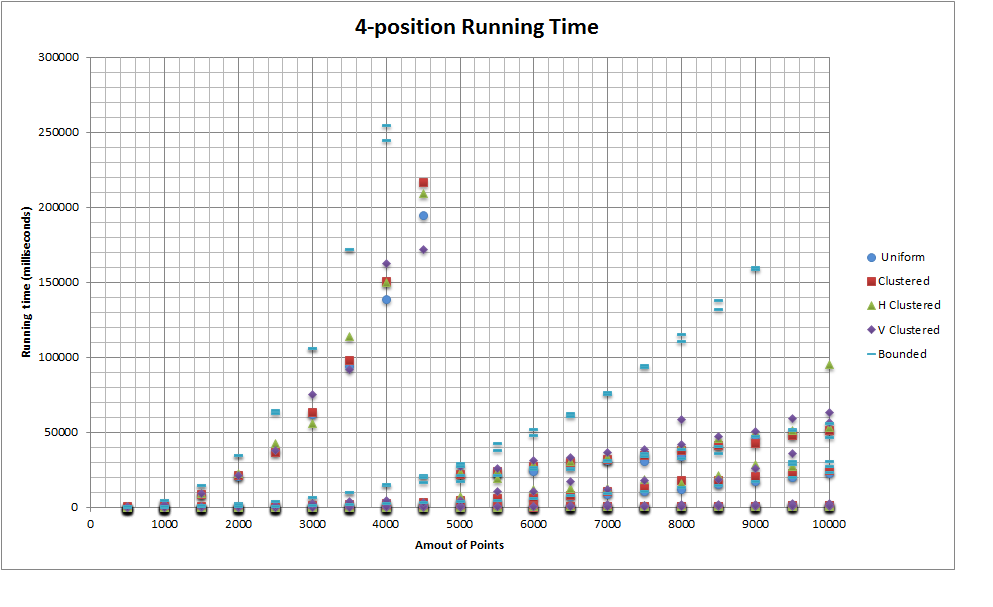
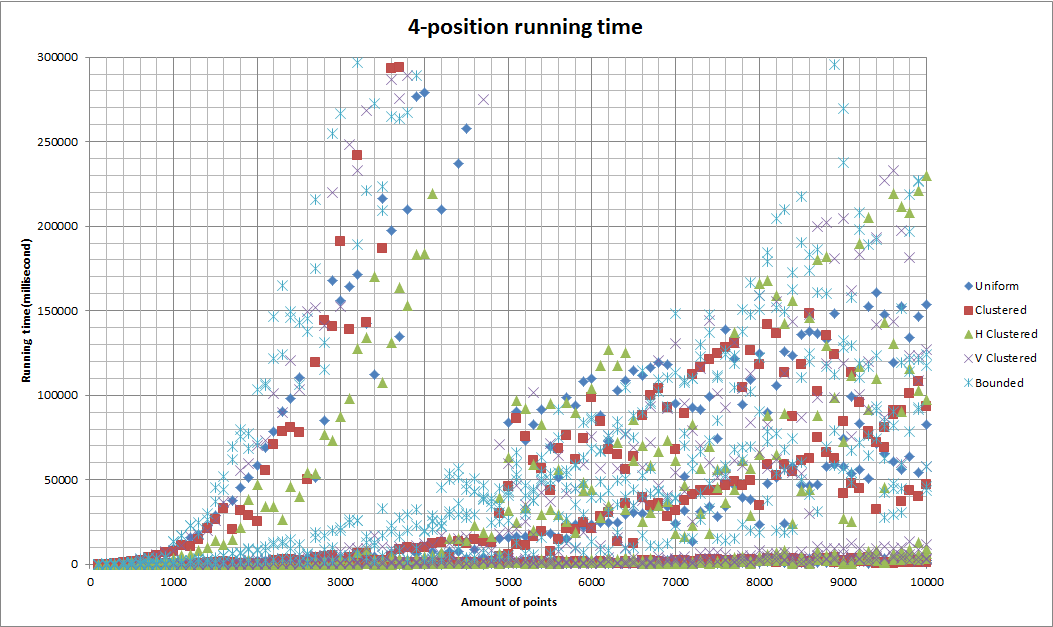
resolve conflict

diff --git a/3.ExperimentalEvaluation/ExperimentalEvaluation.tex b/3.ExperimentalEvaluation/ExperimentalEvaluation.tex
@@ -59,7 +59,7 @@ We ran all the tests in our experimental evaluation on a HP EliteBook 8570w with
 
 \subsection{2-position}
 \subsubsection{Results}
-The algorithm for the 2-position model has been explained in detail in section .... As a short recap, this algorithm has two phase: first we map all the collisions of every candidates of every single point, then we try to place the candidates that has least amount of collisions. For the experimental evaluation of the 2-position algorithm we use $2500$ different test cases with $500$ cases for each distribution.
+The algorithm for the 2-position model is explained in detail in section 2.2. As a short recap, this algorithm has two phases: first we map all the collisions of every candidates of every single point, then we try to place the candidates that has least amount of collisions. For the experimental evaluation of the 2-position algorithm we used $2500$ different test cases with $500$ cases for each distribution. These test cases start with 100 points and increase with 100 points until 10000 points are reached. \\
 
 \begin{figure}[h!]
  \centering
@@ -72,36 +72,50 @@ The algorithm for the 2-position model has been explained in detail in section .
   \centerline{\includegraphics[scale = 0.5]{2PosLabelsPlaced.png}}
   \caption{A graphic showing the percentage of labels placed by the 2-position algorithm}
  \end{figure}
+ 
 \subsubsection{Discussion}
-As stated in section ... the theoretical running time of the 2-position algorithm is $O(n^2)$. From figure ... we can see that the running time of most of the cases is close to their best case. This is because the amount of collisions of the candidates is small, so it will not take much time to map the collisions and it will take less time to place the labels. There are some cases that have higher running time than the others. And we can see from the figure that the practical worst case running time are close to the theoretical running time $O(n^2)$ as we explained before. \\
+As stated in section 2.2.1 the theoretical running time of the 2-position algorithm is $O(n^2)$. From figure ... we can see that the running time of most of the cases is close to their best case. This is because the amount of collisions of the candidates is small, so it will not take much time to map the collisions and it will take less time to place the labels. There are some cases that have higher running time than the others. And we can see from the figure that the practical worst case running time are close to the theoretical running time $O(n^2)$ as we explained before. \\
 The worst cases of each distribution suddenly drops when the number of points reaches a specific amount. This is because in these cases, there are too many collisions. If we use the regular algorithm, the running time will become really high so it's not efficient. So in that case, we use greedy algorithm to place the labels. The running time will become lower and the solution is as optimal when using the regular algorithm since there are a lot of collisions.\\
 Other than running time, we also look at the amount of placed labels of our algorithm. As we can see from figure ..., when the amount of points are small, the algorithm gives solutions with high percentage of placed labels. When the amount of points become higher, the percentage of placed labels will become lower. This is normal as the labels have the same height and the same width for the same type of distribution but with a higher amount of points. The reason why bounded cases have low solution is because all points are placed in a small area.\\
 
 \subsection{4-position}
 \subsubsection{Results}
-The algorithm of 4-position model is basically the same as the algorithm of 2-position except it can place two more labels. For the experimental evaluation of the 4-position algorithm we also use $2500$ different test cases with $500$ cases for each distribution. 
+The algorithm of 4-position model is explained in detail in section 2.2 It is basically the same as the algorithm of 2-position except it has two more possible label candidates. For the experimental evaluation of the 4-position algorithm we also used $2500$ different test cases with $500$ cases for each distribution. These test cases start with 100 points and increase with 100 points until 10000 points are reached.\\ 
 
  \begin{figure}[h!]
  \centering
- \centerline{\includegraphics[scale = 0.6]{4PosRunningTime.png}}
+ \centerline{\includegraphics[scale = 0.5]{4PosRunningTime.png}}
  \caption{A graphic showing the Running Time of the 4-position algorithm}
  \end{figure}
 
  \begin{figure}[h!]
  \centering
-  \centerline{\includegraphics[scale = 0.6]{4PosLabelsPlaced.png}}
+  \centerline{\includegraphics[scale = 0.5]{4PosLabelsPlaced.png}}
   \caption{A graphic showing the percentage of labels placed by the 4-position algorithm}
  \end{figure}
+ 
 \subsubsection{Discussion}
-As we stated in section ..., the algorithm for the 4-position model is nearly the same as the algorithm for the 2-position model. Hence the theoretical running time of the 4-position algorithm is also $O(n^2)$. In figure ..., it shows the running time of $2500$ different cases. As with the algorithm for the 2-position model, the running time for most of the cases is close to their best case. This is because the amount of collisions of the candidates is small, so it will not take much time to map the collisions and it will take less time to place the labels. We can see from the figure that the practical worst-case running time is close to the theoretical running time $O(n^2)$. \\
+As we stated in section 2.2.1, the algorithm for the 4-position model is nearly the same as the algorithm for the 2-position model. Hence the theoretical running time of the 4-position algorithm is also $O(n^2)$. In figure ..., it shows the running time of $2500$ different cases. As with the algorithm for the 2-position model, the running time for most of the cases is close to their best case. This is because the amount of collisions of the candidates is small, so it will not take much time to map the collisions and it will take less time to place the labels. We can see from the figure that the practical worst-case running time is close to the theoretical running time $O(n^2)$. \\
 The running time of the worst cases of each distribution also suddenly drop when the number of points reaches a specific amount. This is because, in these cases, there are too many collisions and, as with the 2-position algorithm, we use a greedy algorithm to place the labels. But there are still some differences between the algorithm for the 2-position model and the 4-position model. The 4-position algorithm reverts to using the greedy algorithm faster than 2-position algorithm. this is because, with the 4-position model, more collisions occur between candidates as there are more possible positions for a candidate to be in.\\
 Other than running time, we also look at the amount of placed labels of our algorithm. As we can see from figure ..., when the amount of points are small, the algorithm gives solutions with high percentage of placed labels. When the amount of points become higher, the percentage of placed labels will become lower. This can be explained by the same situation in 2-position model. Compared to the result of 2-position algorithm, 4-position algorithm has higher solution in the percentage of placed labels since it has two more labels to place.\\
 
 \subsection{1-slider}
 \subsubsection{Results}
-The running time of the 1-slider algorithm can be seen in figure ... We found in practice that the running time of the 1-slider algorithm can exceed the time limit we had of 5 minutes when the amount of overlaps was large. We thus put a hard limit of 4.5 minutes on the heuristic algorithm and, if the algorithm had not given a result by then, ran a greedy algorithm.
+For the evaluation of the 1-slider algorithm we ran 500 test cases, 100 of each distribution. These test cases start with 500 points and increase with 500 points until 10000 points is reached. The 1-slider algorithm is explained in detail in section 2.3
 
-The percentage of labels placed by the 1-slider algorithm can be seen in figure ...
+ \begin{figure}[h!]
+ \centering
+ \centerline{\includegraphics[scale = 0.65]{1slider.png}}
+ \caption{A graphic showing the Running Time of the 1-slider algorithm}
+ \end{figure}
+
+ \begin{figure}[h!]
+ \centering
+  \centerline{\includegraphics[scale = 0.65]{1sliderplaced.png}}
+  \caption{A graphic showing the percentage of labels placed by the 1-slider algorithm}
+ \end{figure}
+ 
 \subsubsection{Discussion}
+From section 2.3.9 we get that the theoretical running time of the 1-slider algorithm is $\theta(n^3)$. From the figure we can see that the practical running time matches the theoretical running time. The figure also shows that the running time of all the test cases plateaus after a certain amount of points is reached. This is because after 4.5 minutes has been reached we stop the algorithm and report the best solution found up to then.
 
 \end{document}
